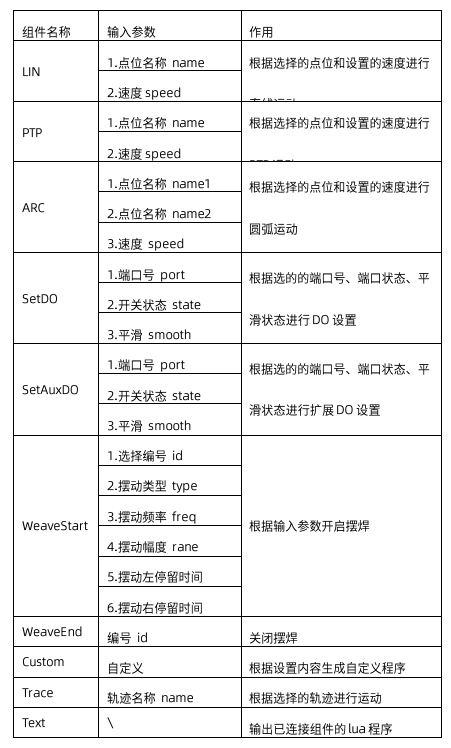
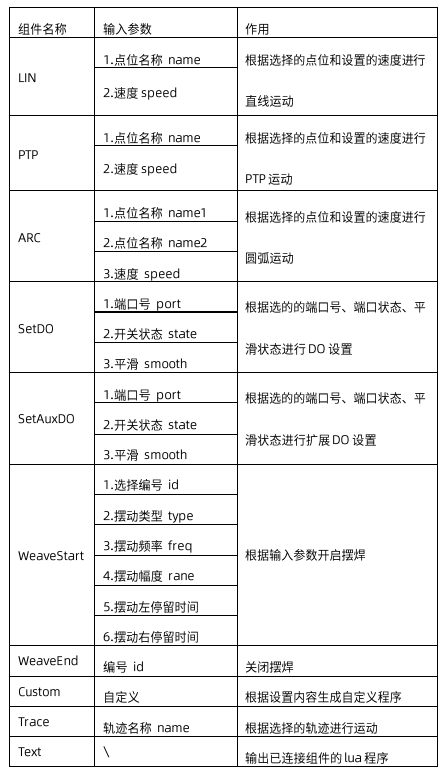
修改图片缩放问题

Changed region(s): [[0.0, 0.0, 0.9933, 1.0]]

diff --git a/source/manual/analysis.rst b/source/manual/analysis.rst
@@ -120,7 +120,7 @@
 
 .. figure:: analysis/015.png
 	:align: center
-	:width: 6in
+	:width: 3in
 
 .. centered:: 图表 3-3 模型场景区
 
@@ -129,7 +129,7 @@
 
 .. figure:: analysis/016.png
 	:align: center
-	:width: 6in
+	:width: 3in
 
 .. centered:: 图表 3-4 机器人安装角度设置
 
@@ -138,7 +138,7 @@
 
 .. figure:: analysis/017.png
 	:align: center
-	:width: 6in
+	:width: 3in
 
 .. centered:: 图表 3-5 DH参数设置
 
@@ -152,7 +152,7 @@
 
 .. figure:: analysis/018.png
 	:align: center
-	:width: 6in
+	:width: 3in
 
 .. centered:: 图表 3-6 工具坐标系设置
 
@@ -161,7 +161,7 @@
 
 .. figure:: analysis/019.png
 	:align: center
-	:width: 6in
+	:width: 3in
 
 .. centered:: 图表 3-7 工件坐标系设置
 
@@ -170,7 +170,7 @@
 
 .. figure:: analysis/020.png
 	:align: center
-	:width: 6in
+	:width: 3in
 
 .. centered:: 图表 3-8 坐标系选择
 
@@ -201,7 +201,7 @@
 
 .. figure:: analysis/022.png
 	:align: center
-	:width: 6in
+	:width: 3in
 
 .. centered:: 图表 3-10 关节空间运动
 
@@ -210,7 +210,7 @@
 
 .. figure:: analysis/023.png
 	:align: center
-	:width: 6in
+	:width: 3in
 
 .. centered:: 图表 3-10 笛卡尔空间运动
 
@@ -219,7 +219,7 @@
 
 .. figure:: analysis/024.png
 	:align: center
-	:width: 6in
+	:width: 3in
 
 .. centered:: 图表 3-12 同步位姿和移至该点
 
@@ -234,7 +234,7 @@ AO 操作：选择端口号，右侧输入框输入值（0-100），该数值为
 
 .. figure:: analysis/025.png
 	:align: center
-	:width: 6in
+	:width: 3in
 
 .. centered:: 图表 3-13  IO控制
 
@@ -250,7 +250,7 @@ AO 操作：选择端口号，右侧输入框输入值（0-100），该数值为
 
 .. figure:: analysis/026.png
 	:align: center
-	:width: 6in
+	:width: 3in
 
 .. centered:: 图表 3-14  外部轴控制
 
@@ -283,7 +283,7 @@ AO 操作：选择端口号，右侧输入框输入值（0-100），该数值为
 
 .. figure:: analysis/029.png
 	:align: center
-	:width: 6in
+	:width: 3in
 
 .. centered:: 图表 3-17   程序模块
 
@@ -296,7 +296,7 @@ AO 操作：选择端口号，右侧输入框输入值（0-100），该数值为
 
 .. figure:: analysis/030.png
 	:align: center
-	:width: 6in
+	:width: 3in
 
 .. centered:: 图表 3-18   点位拾取
 
@@ -312,7 +312,7 @@ AO 操作：选择端口号，右侧输入框输入值（0-100），该数值为
 
 .. figure:: analysis/031.png
 	:align: center
-	:width: 6in
+	:width: 3in
 
 .. centered:: 图表 3-19   线段拾取
 
@@ -329,7 +329,7 @@ AO 操作：选择端口号，右侧输入框输入值（0-100），该数值为
 
 .. figure:: analysis/032.png
 	:align: center
-	:width: 6in
+	:width: 3in
 
 .. centered:: 图表 3-20  仿真运行
 
@@ -341,7 +341,7 @@ AO 操作：选择端口号，右侧输入框输入值（0-100），该数值为
 
 .. figure:: analysis/033.png
 	:align: center
-	:width: 6in
+	:width: 3in
 
 .. centered:: 图表 3-21  轨迹数据
 
@@ -354,7 +354,7 @@ AO 操作：选择端口号，右侧输入框输入值（0-100），该数值为
 
 .. figure:: analysis/034.png
 	:align: center
-	:width: 6in
+	:width: 3in
 
 .. centered:: 图表 3-22  日志管理
 

diff --git a/source/manual/quick_start.rst b/source/manual/quick_start.rst
@@ -20,7 +20,7 @@
 
 .. figure:: quick_start/002.png
 	:align: center
-	:width: 6in
+	:width: 4in
 
 .. centered:: 图表 2-2 安装相机和焊枪
 
@@ -37,7 +37,7 @@
 
 .. figure:: quick_start/003.png
 	:align: center
-	:width: 6in
+	:width: 3in
 
 .. centered:: 图表 2-3 设置工具坐标
 
@@ -47,7 +47,7 @@
 
 .. figure:: quick_start/004.png
 	:align: center
-	:width: 6in
+	:width: 3in
 
 .. centered:: 图表 2-4 四点法和六点法
 
@@ -56,7 +56,7 @@
 
 .. figure:: quick_start/005.png
 	:align: center
-	:width: 6in
+	:width: 4in
 
 .. centered:: 图表 2-5 六点法标定工具坐标系
 
@@ -137,7 +137,7 @@
 
 .. figure:: quick_start/009.png
 	:align: center
-	:width: 6in
+	:width: 3in
 
 .. centered:: 图表 2-9 设置安装角度和获取DH补偿参数
 
@@ -179,7 +179,7 @@
 
 .. figure:: quick_start/012.png
 	:align: center
-	:width: 6in
+	:width: 5in
 
 .. centered:: 图表 2-12 拍摄照片位置示意图
 
@@ -192,7 +192,7 @@
 
 .. figure:: quick_start/013.png
 	:align: center
-	:width: 6in
+	:width: 3in
 
 .. centered:: 图表 2-13 拍摄照片
 
@@ -207,7 +207,7 @@
 
 .. figure:: quick_start/014.png
 	:align: center
-	:width: 6in
+	:width: 3in
 
 .. centered:: 图表 2-14 一键拍照
 
@@ -221,7 +221,7 @@
 
 .. figure:: quick_start/015.png
 	:align: center
-	:width: 6in
+	:width: 5in
 
 .. centered:: 图表 2-15 获取工件点云和变换矩阵
 
@@ -236,7 +236,7 @@
 
 .. figure:: quick_start/016.png
 	:align: center
-	:width: 6in
+	:width: 2.5in
 
 .. centered:: 图表 2-16 坐标系设置
 
